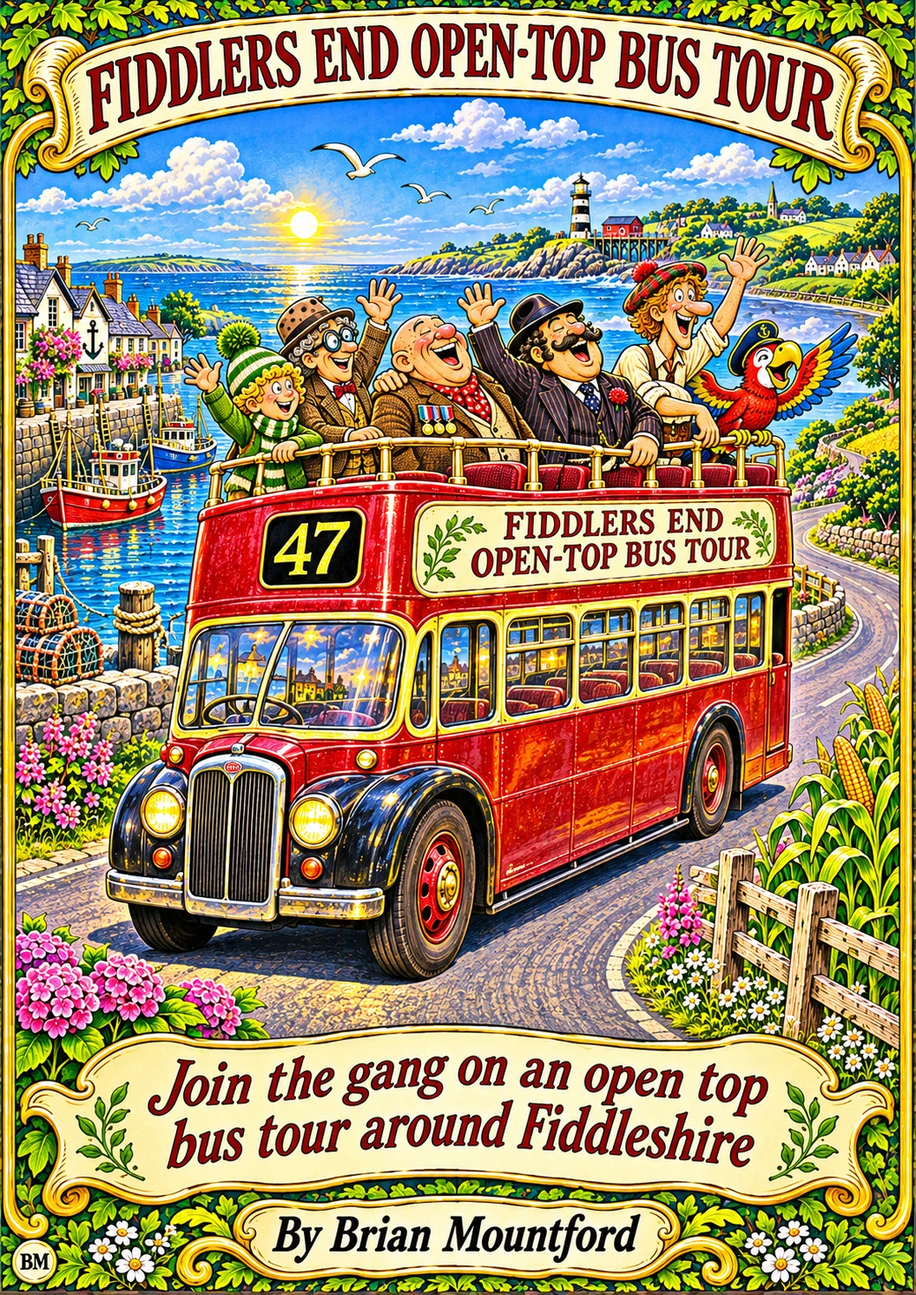
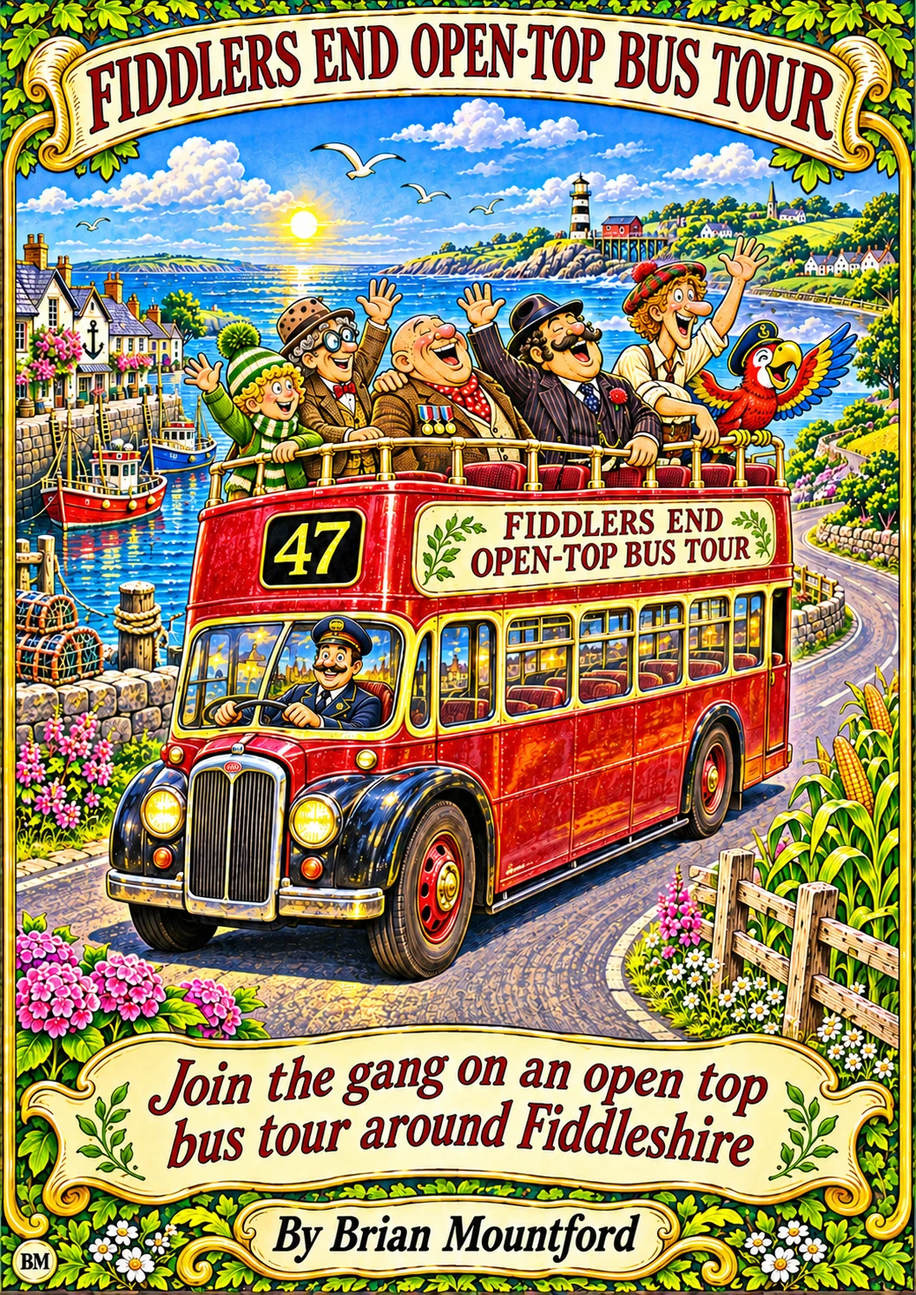
Lock approved driver cover for Main Entrance page 72

diff --git a/fiddlers-end-open-top-bus-tour/LOCKED_MASTER.md b/fiddlers-end-open-top-bus-tour/LOCKED_MASTER.md
@@ -5,3 +5,5 @@ Front cover and tour pages approved and locked by Brian Mountford on 27 November
 Cover SHA-256: 49ead7e279c503b9c98f6be0d2e6ac69e5abbd1714cca37a941edf34c48b97ea
 
 Locked 14-page interior and back cover PDF SHA-256: 257b511cf139d6ee9c57cdc3ef5e7fb54e3cdeda04a109f619a27348bf445d4e
+
+Revised cover with driver approved and locked on 27 November 2026. SHA-256: 6116aabb01b94c698025aacfdcb00876487c8d8c1bfa64ef3a16134c83d0273a
